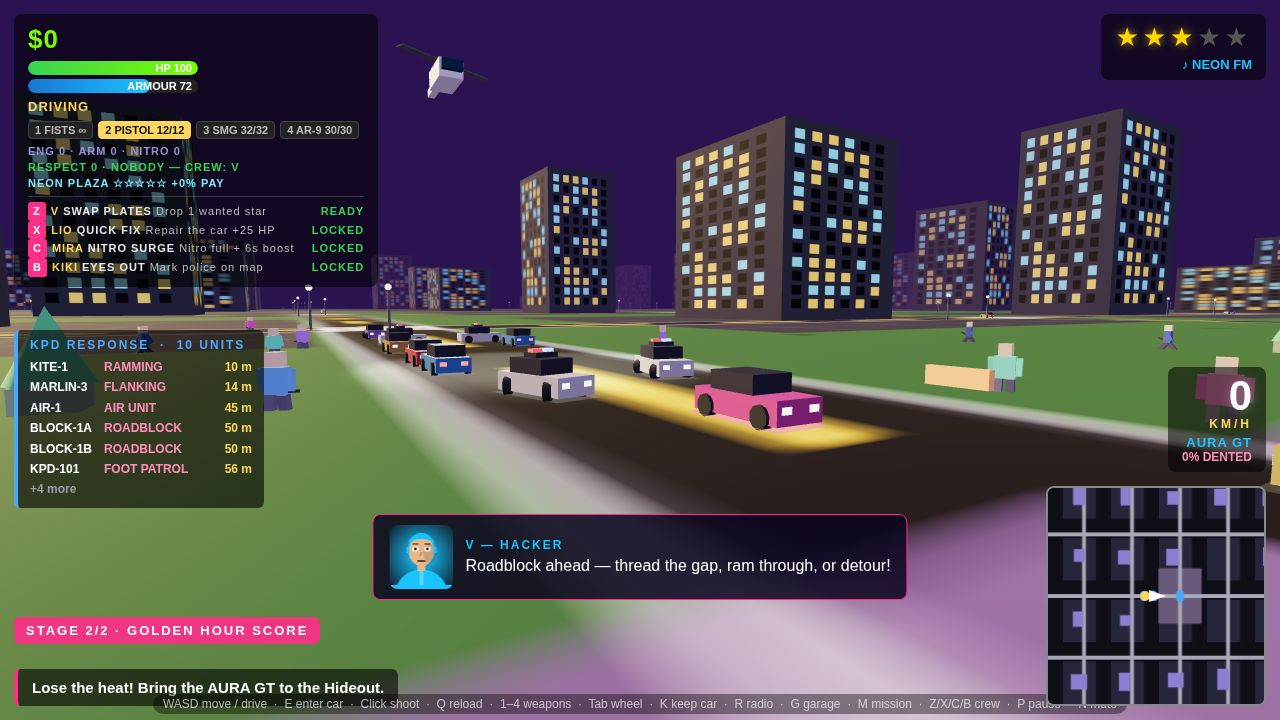
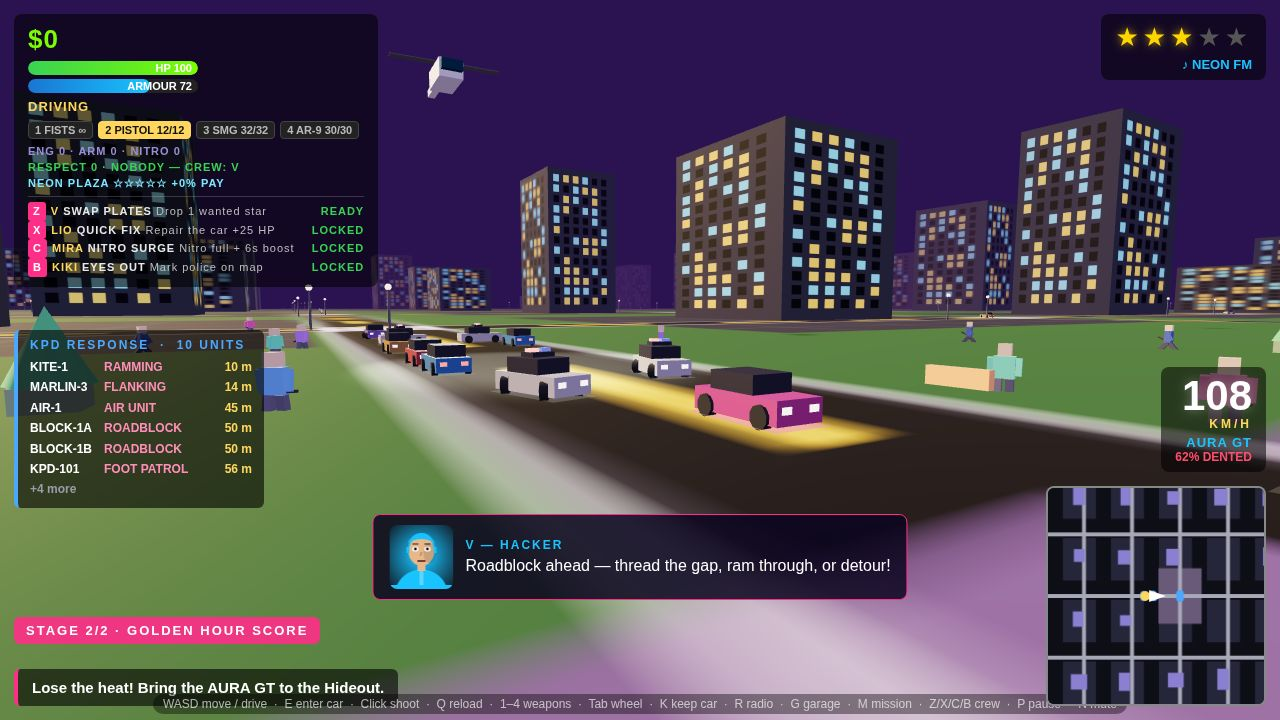
HUD completeness: speedo pose fix + dispatch panel spacing
- Speedo speedDisplay: staged driving shots read 108 km/h / 62% dented
  (like r1's 111 km/h frame) while the car stays in pose; live speed
  unchanged in real play (fallback to car.speed)
- Kiki ability desc shortened so the crew row no longer collides with
  its READY/LOCKED state
- Dispatch panel moved to top:330px (was overlapping the crew panel)
- Tests: gameplay 72/72, kit check 4 passed 0 failed, dossier 4 images

diff --git a/game/src/shots.js b/game/src/shots.js
@@ -49,6 +49,10 @@ const NV_SHOTS = {
       G.cars.push(proto);
       NV_MAIN.enterCar(G, proto);
       proto.speed = 0;
+      // Posed as a chase: the speedo reads 108 km/h and the car 62%
+      // dented (like r1's 111 km/h frame) while the car stays in pose.
+      proto.speedDisplay = 30;
+      proto.hp = 38;
       NV_POLICE.addWanted(G, 3);
       const c1 = NV_ENTITIES.makeCar(0xf2f2f2, 'police');
       c1.group.position.set(-14, 0, 752); c1.yaw = -0.3; c1.group.rotation.y = -0.3;
@@ -101,6 +105,10 @@ const NV_SHOTS = {
       G.cars.push(proto);
       NV_MAIN.enterCar(G, proto);
       proto.speed = 0;
+      // Posed as a chase: the speedo reads 108 km/h and the car 62%
+      // dented (like r1's 111 km/h frame) while the car stays in pose.
+      proto.speedDisplay = 30;
+      proto.hp = 38;
       NV_POLICE.addWanted(G, 3);
       G.player.camYaw = 0;
       const c1 = NV_ENTITIES.makeCar(0xf2f2f2, 'police');

diff --git a/game/src/hud.js b/game/src/hud.js
@@ -305,7 +305,10 @@ const NV_HUD = {
     // damage % — only while driving.
     if (P.inCar && P.car) {
       e.speedo.classList.remove('hidden');
-      e.speed.textContent = String(Math.round(Math.abs(P.car.speed) * 3.6));
+      // The speedo reads the car's speed — or speedDisplay, the posed
+      // value the screenshot staging sets so a parked pose can read as
+      // a chase (108 km/h) without the car driving out of frame.
+      e.speed.textContent = String(Math.round(Math.abs(P.car.speedDisplay ?? P.car.speed) * 3.6));
       e.carname.textContent = NV_ENTITIES.carDisplayName(P.car);
       const dmg = Math.max(0, Math.round(100 * (1 - (P.car.hp || 0) / (P.car.hpMax || 100))));
       e.cardmg.textContent = dmg + '% DENTED';
